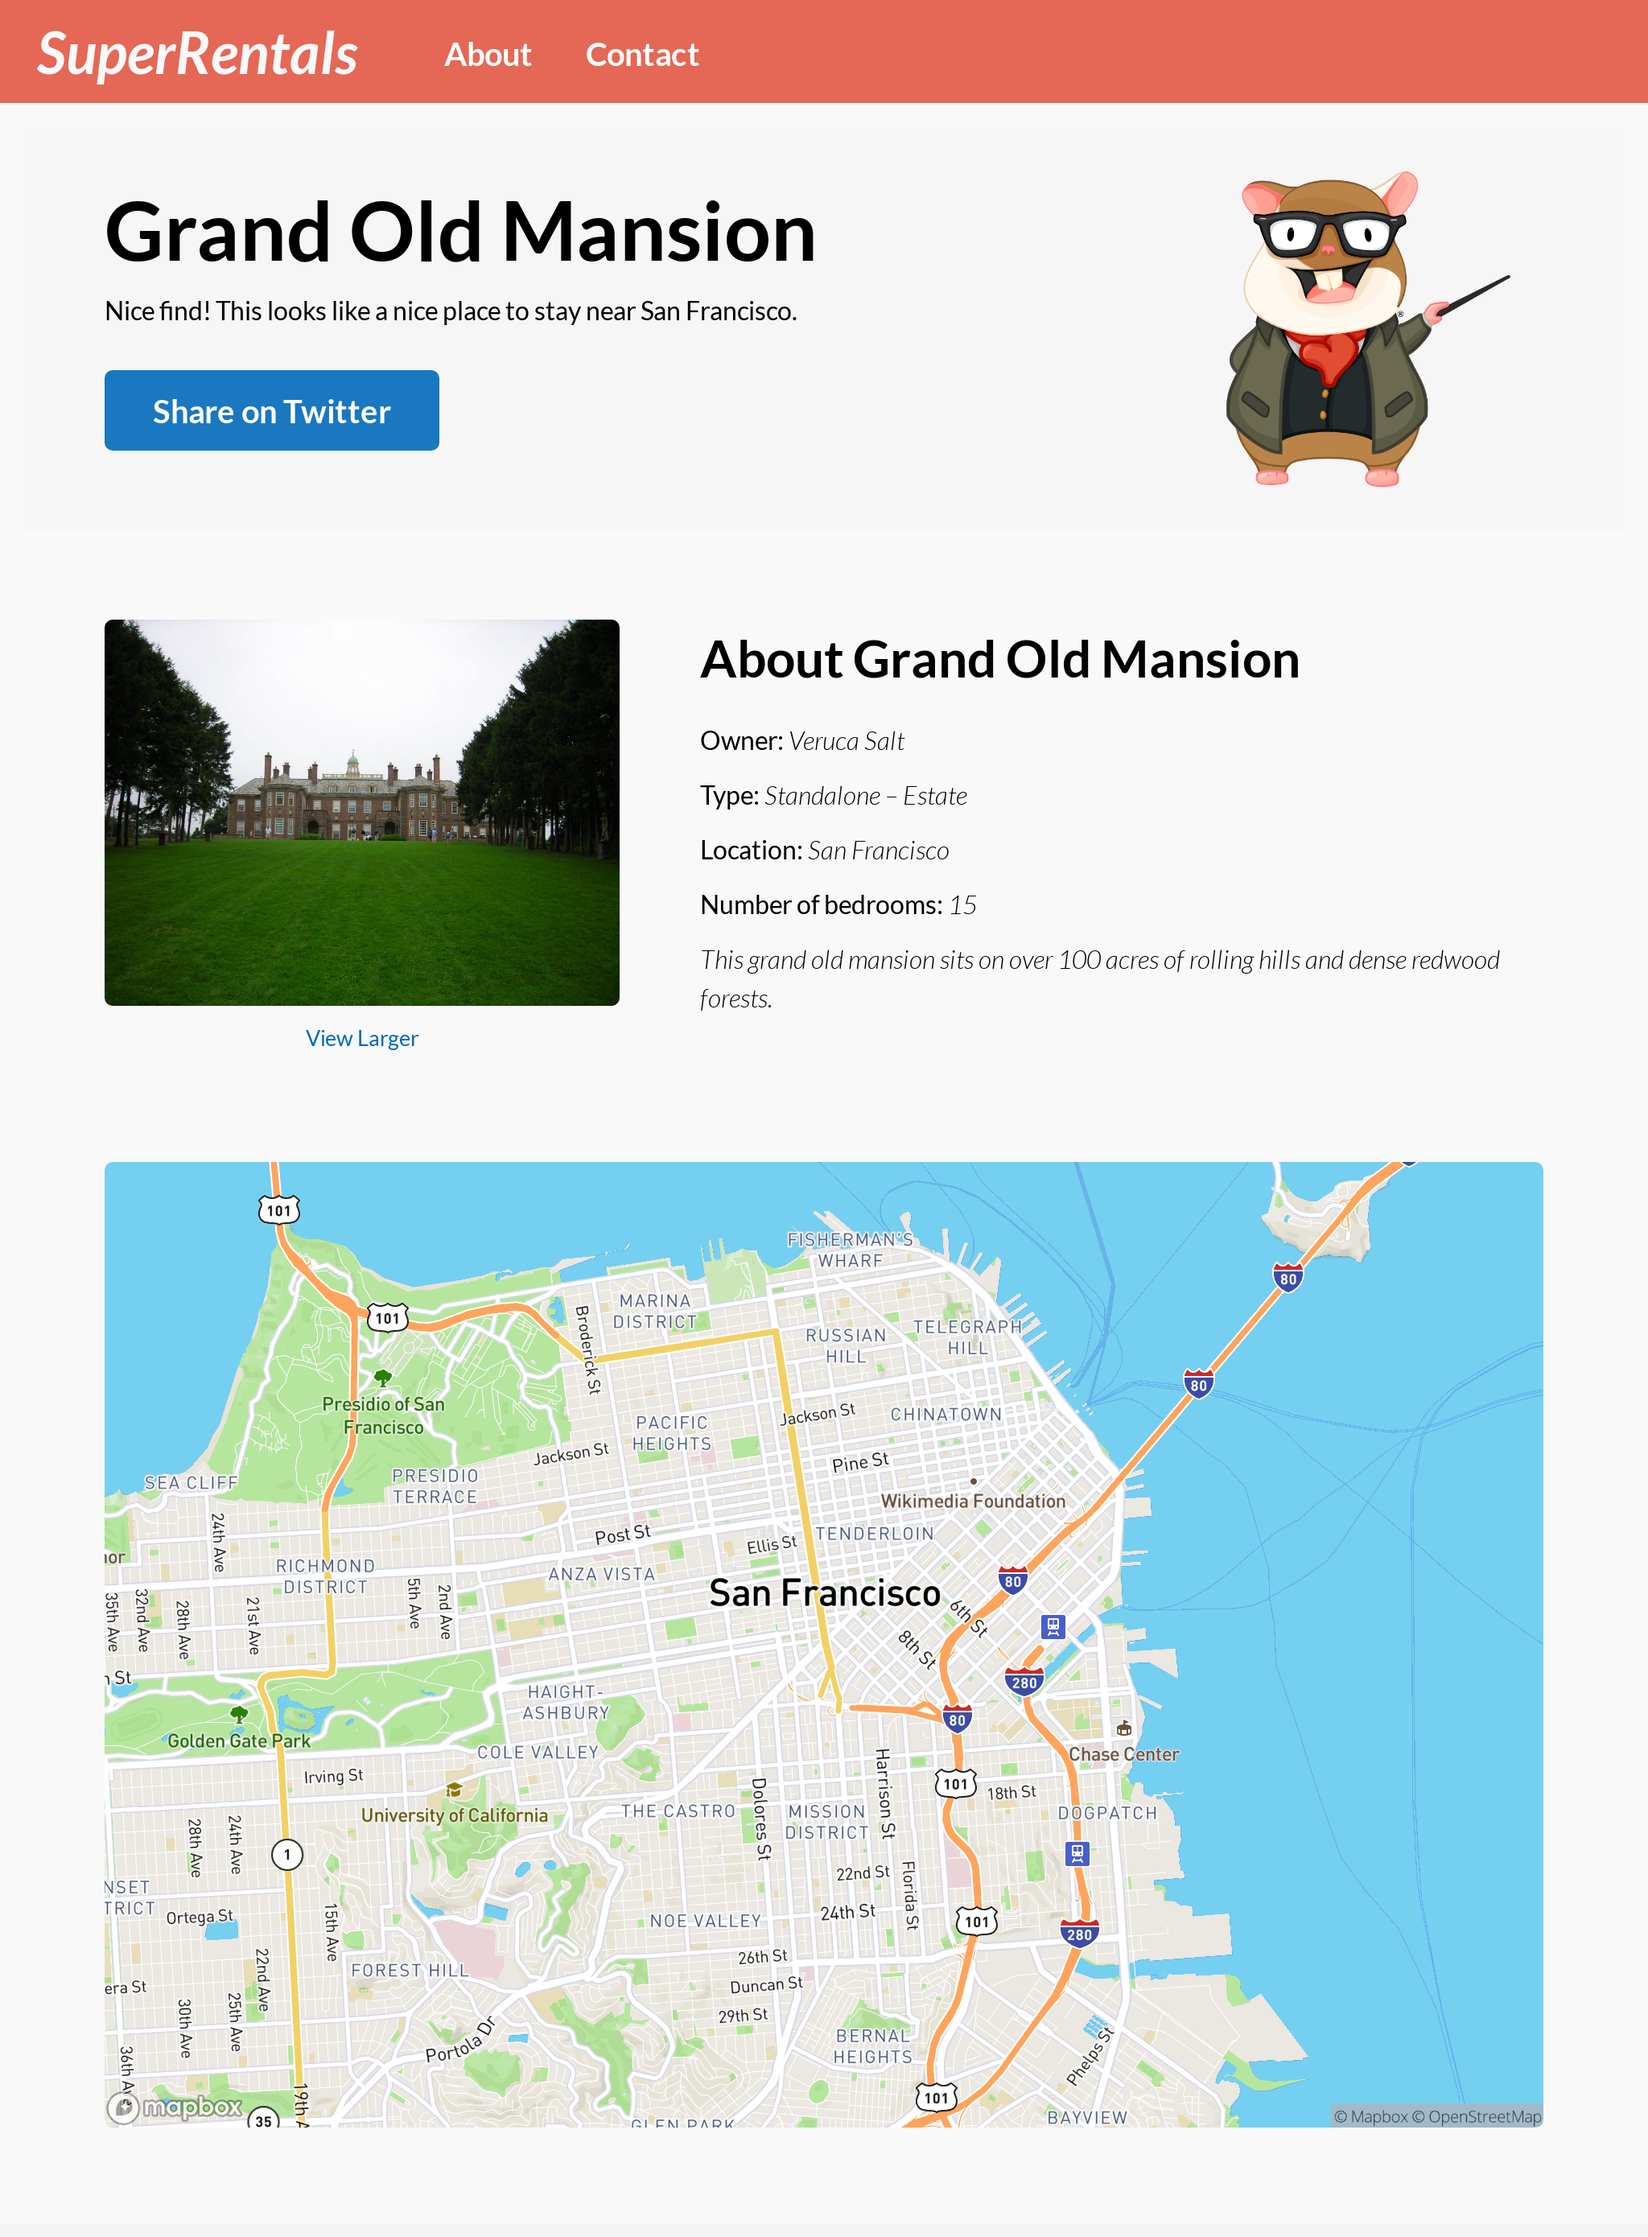
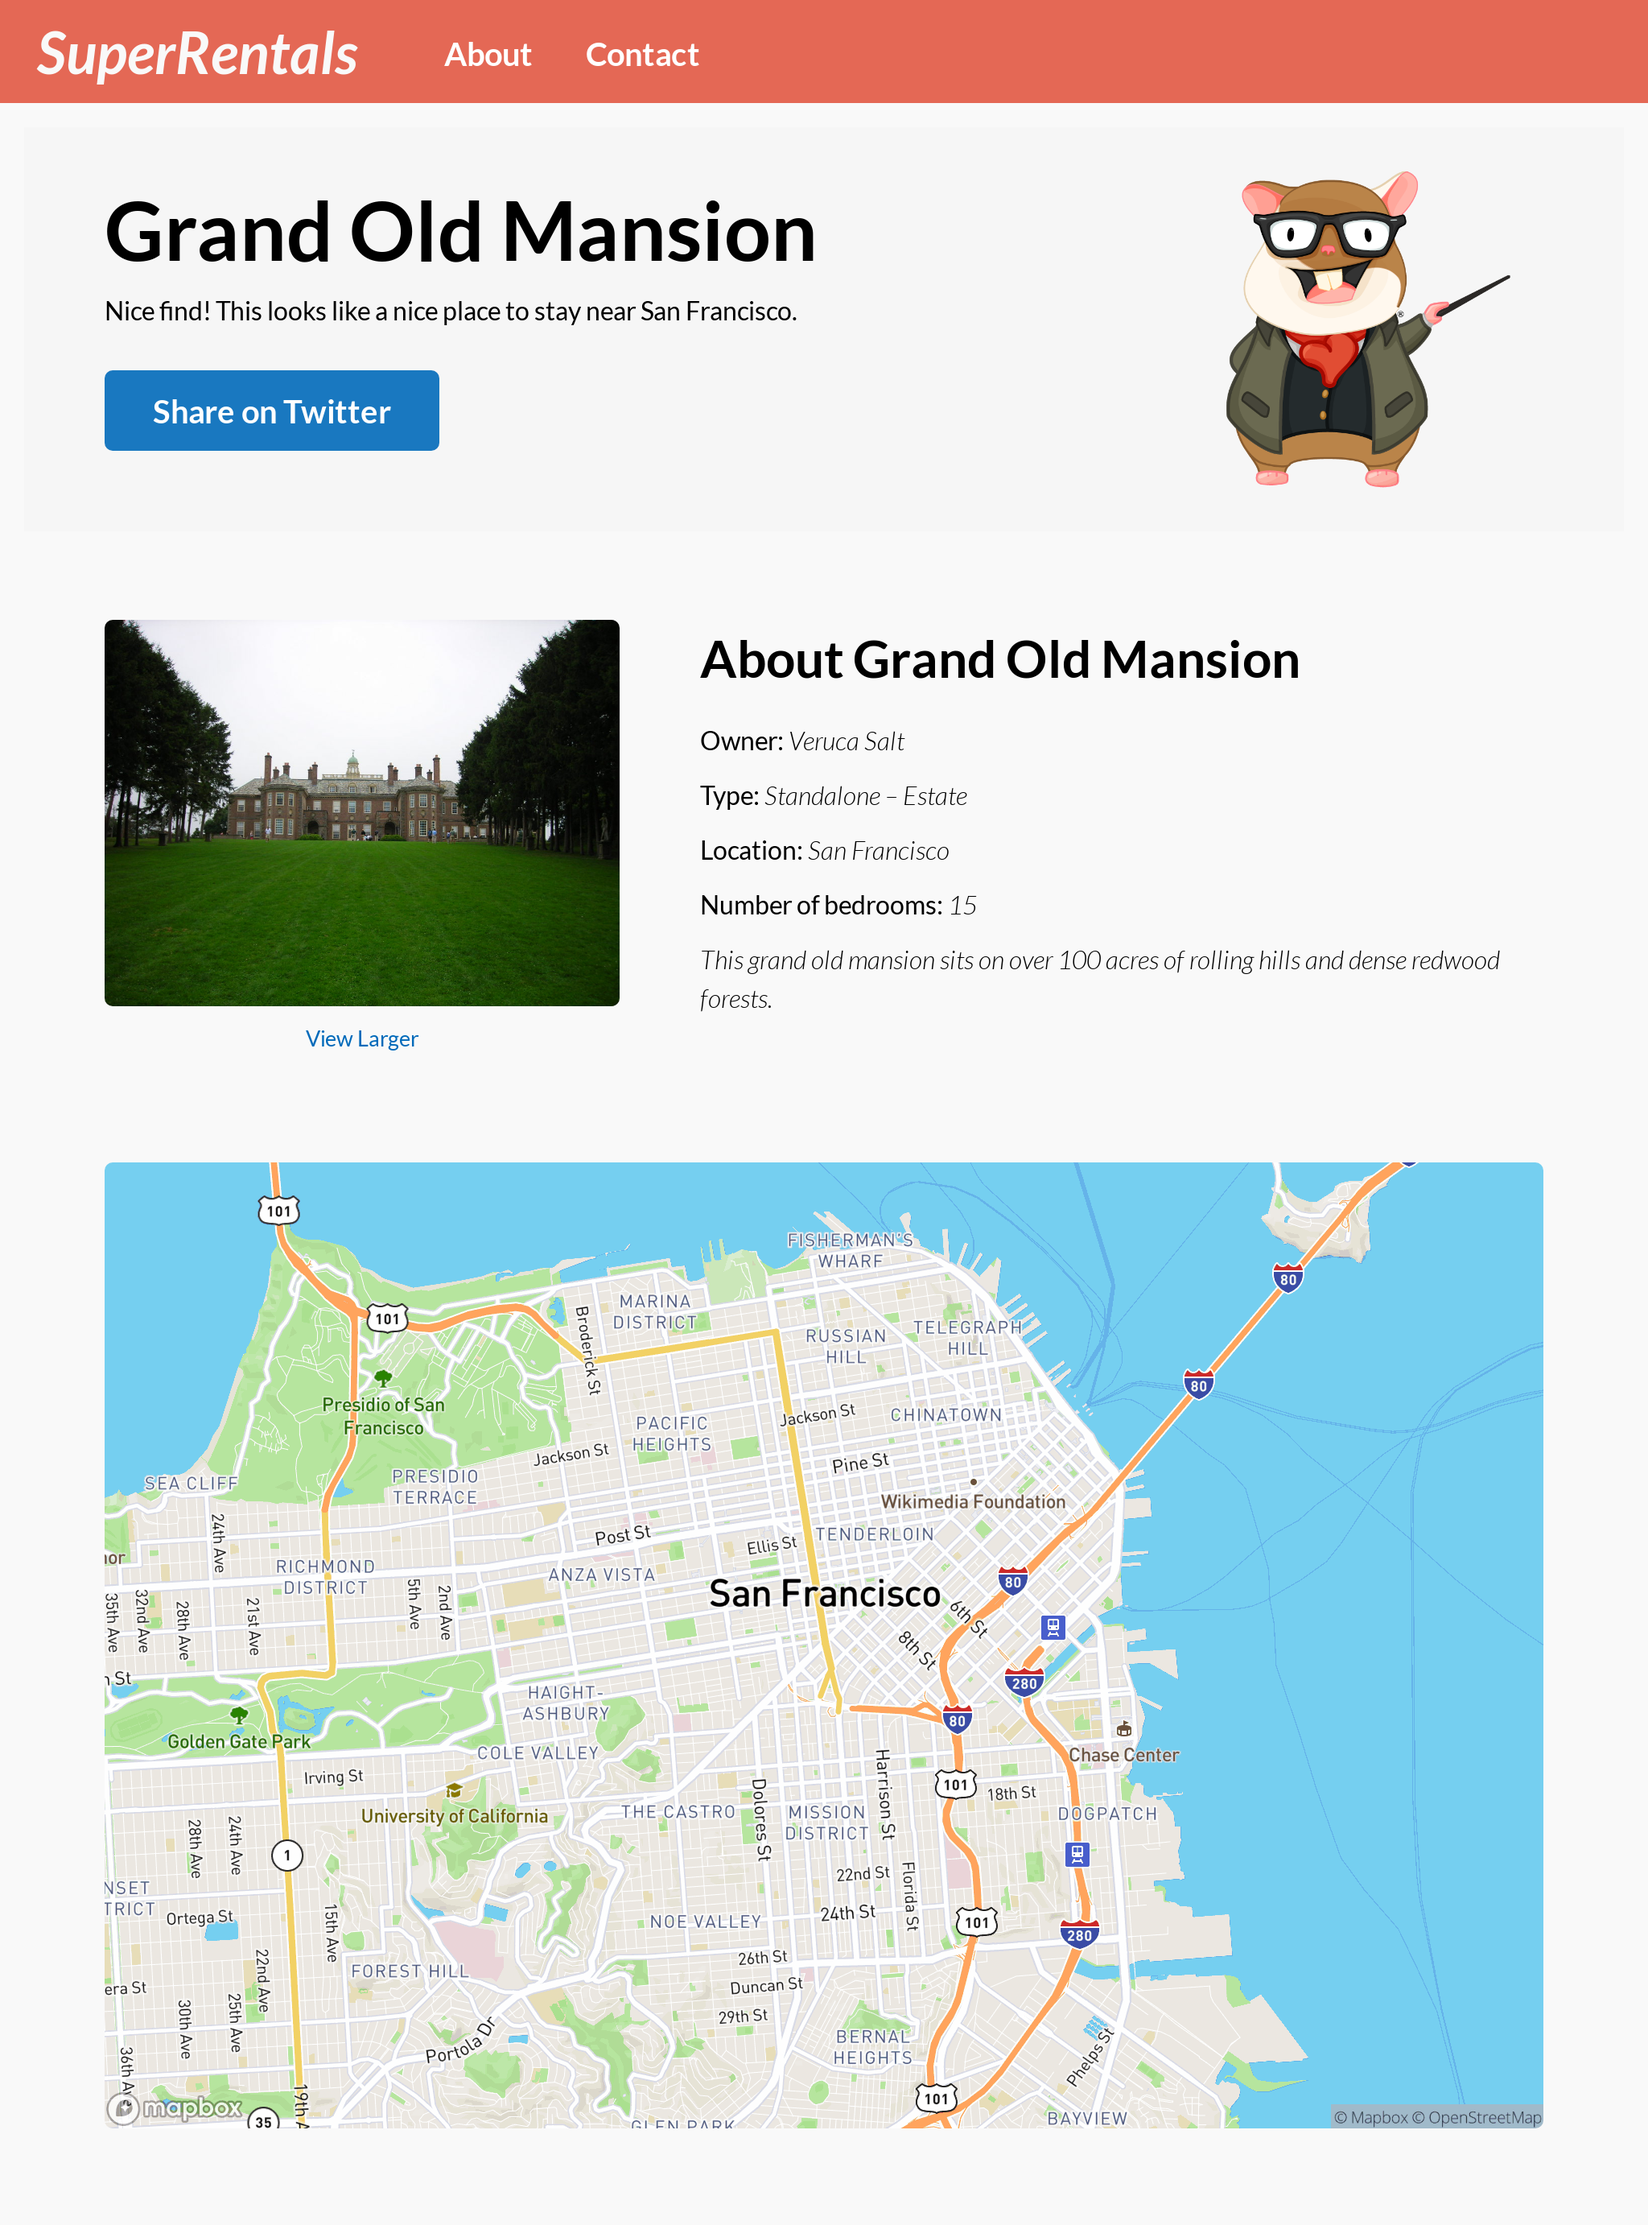
[CRON] Monday May 06, 2024
---

Commit:  ember-learn/super-rentals-tutorial@04dca996b7849612c36a6c50eb27c89b65b170ad
Script:  https://github.com/ember-learn/super-rentals-tutorial/blob/04dca996b7849612c36a6c50eb27c89b65b170ad/.github/workflows/build.yml
Logs:    https://github.com/ember-learn/super-rentals-tutorial/commit/04dca996b7849612c36a6c50eb27c89b65b170ad/checks

diff --git a/guides/release/tutorial/part-2/service-injection.md b/guides/release/tutorial/part-2/service-injection.md
@@ -4,7 +4,7 @@ As promised, we will now work on implementing the share button!
 
 <!-- TODO: make this a gif instead -->
 
-<img src="/images/tutorial/part-2/service-injection/share-button@2x.png" alt="The working share button by the end of the chapter" width="1024" height="1390">
+<img src="/images/tutorial/part-2/service-injection/share-button@2x.png" alt="The working share button by the end of the chapter" width="1024" height="1382">
 
 While adding the share button, you will learn about:
 
@@ -174,7 +174,7 @@ Let's put this component to use by invoking it from the `<Rental::Detailed>` com
 
 With that, we should have a working share button!
 
-<img src="/images/tutorial/part-2/service-injection/share-button@2x.png" alt="A share button that works!" width="1024" height="1390">
+<img src="/images/tutorial/part-2/service-injection/share-button@2x.png" alt="A share button that works!" width="1024" height="1382">
 
 <div class="cta">
   <div class="cta-note">
